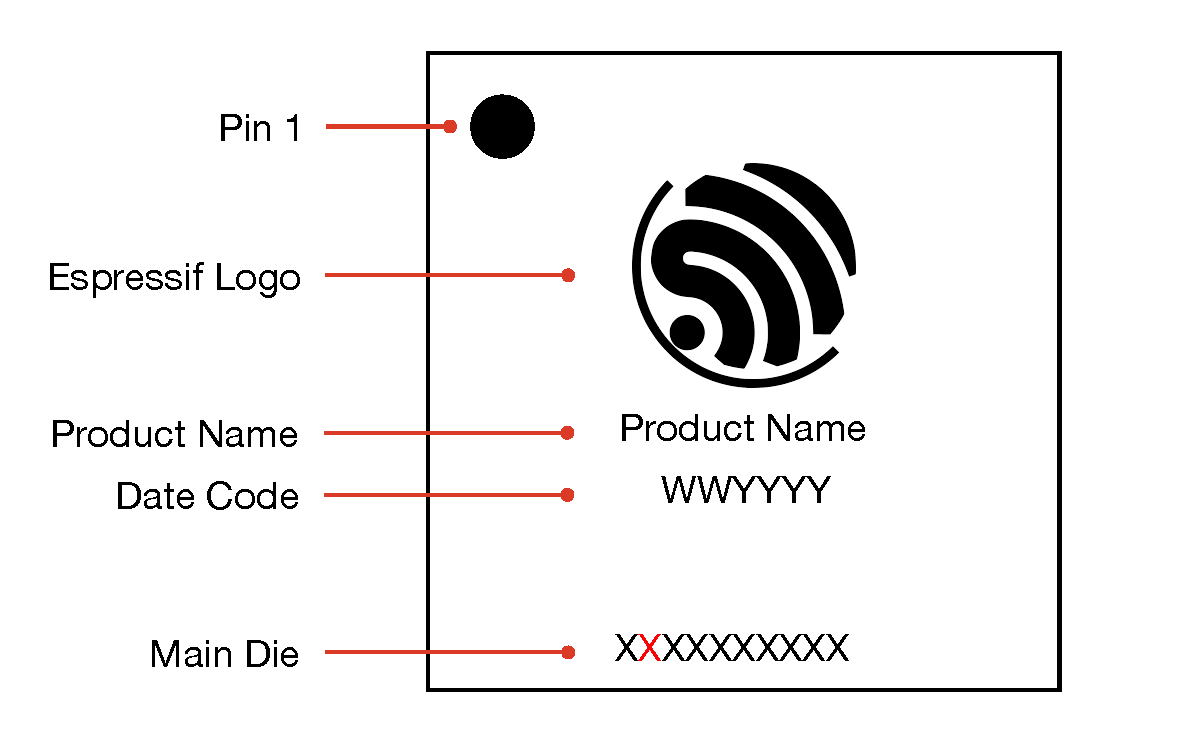
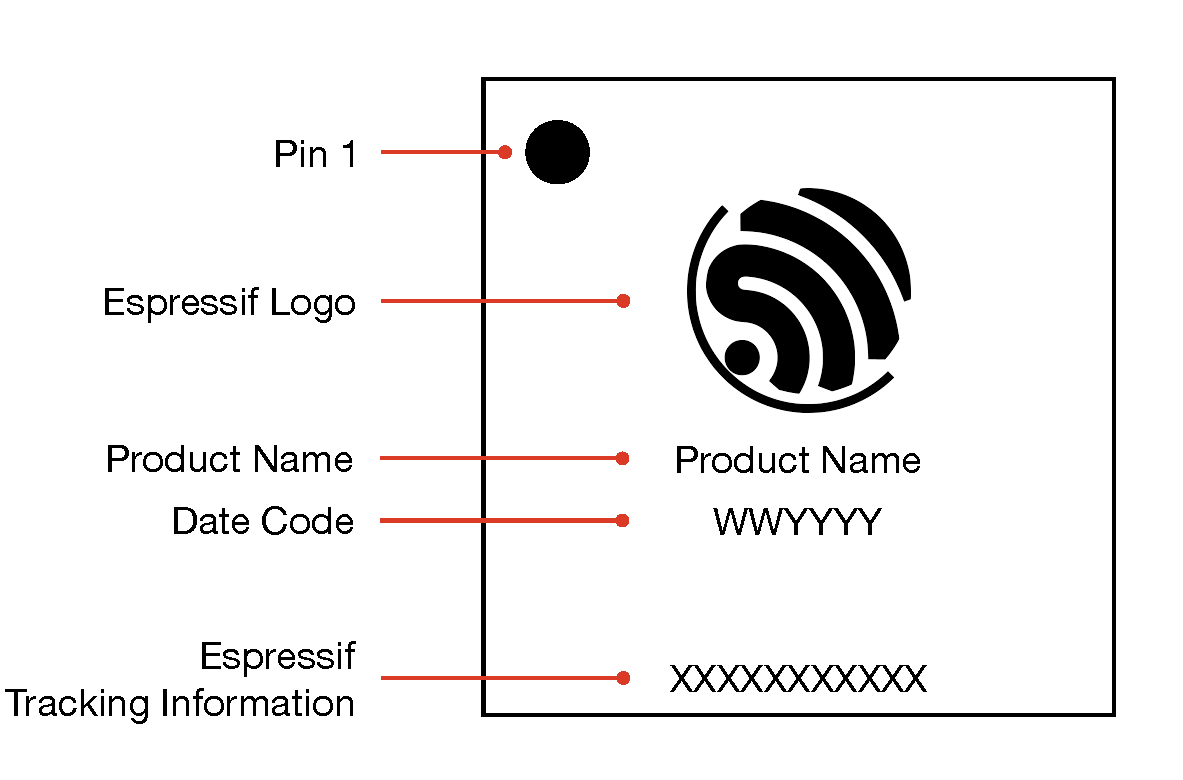
remove chip revision table

Changed region(s): [[0.0, 0.0613, 0.945, 0.92]]

diff --git a/docs/en/hardware-related/chip-comparison.rst b/docs/en/hardware-related/chip-comparison.rst
@@ -94,61 +94,11 @@ Do ESP products support Zephyr?
 How to identify the chip revision from the chip silk marking?
 -------------------------------------------------------------------------------------------
 
-You can do it by checking the second character of main die line on the chip silk marking.
+You can do it by checking the second character of Espressif Tracking Information line in the bottom of the chip silk marking.
 
 .. image:: ../../_static/chip-marking.png
   :width: 400
   :alt: Chip Marking Diagram
-
-The mapping between the chip revision of all our chips and the second character of main die lie can be found in the table below:
-
-+------------------+---------------+-------------------+
-| Chip Series      | Chip Revision | Marking Indicator |
-+==================+===============+===================+
-| ESP32            | v0.0          | A                 |
-|                  +---------------+-------------------+
-|                  | v1.0          | B                 |
-|                  +---------------+-------------------+
-|                  | v1.1          | F                 |
-|                  +---------------+-------------------+
-|                  | v3.0          | E                 |
-|                  +---------------+-------------------+
-|                  | v3.1          | G                 |
-+------------------+---------------+-------------------+
-| ESP32-S2         | v0.0          | A                 |
-|                  +---------------+-------------------+
-|                  | v1.0          | B                 |
-+------------------+---------------+-------------------+
-| ESP32-C3         | v0.0          | A                 |
-|                  +---------------+-------------------+
-|                  | v0.1          | B                 |
-|                  +---------------+-------------------+
-|                  | v0.2          | C                 |
-|                  +---------------+-------------------+
-|                  | v0.3          | D                 |
-|                  +---------------+-------------------+
-|                  | v0.4          | E                 |
-+------------------+---------------+-------------------+
-| ESP32-S3         | v0.0          | A                 |
-|                  +---------------+-------------------+
-|                  | v0.1          | B                 |
-|                  +---------------+-------------------+
-|                  | v0.2          | C                 |
-+------------------+---------------+-------------------+
-| ESP32-C2/ESP8684 | v0.0          | A                 |
-|                  +---------------+-------------------+
-|                  | v1.0          | AA                |
-|                  +---------------+-------------------+
-|                  | v1.1          | B                 |
-|                  +---------------+-------------------+
-|                  | v1.2          | C                 |
-+------------------+---------------+-------------------+
-| ESP32-C6         | v0.0          | A                 |
-+------------------+---------------+-------------------+
-| ESP32-H2         | v0.0          | A                 |
-|                  +---------------+-------------------+
-|                  | v0.1          | B                 |
-+------------------+---------------+-------------------+
 
 - For detailed differences between chip revisions, please refer to respective chip errata documents from Espressif's `documentation page <https://www.espressif.com/en/support/documents/technical-documents?keys=errata>`_.
 - For a complete explanation of the chip silk marking, please refer to `Espressif Chip Packaging Information <https://www.espressif.com/sites/default/files/documentation/espressif_chip_packaging_information_en.pdf>`_.

diff --git a/docs/zh_CN/hardware-related/chip-comparison.rst b/docs/zh_CN/hardware-related/chip-comparison.rst
@@ -94,61 +94,11 @@ ESP 系列产品是否支持 Zephyr？
 如何通过芯片丝印，识别芯片版本？
 -------------------------------------------------------------------
 
-芯片版本可通过查看芯片丝印最下方 main die 行的第二位进行识别。
+芯片版本可通过查看芯片丝印最下方 Espressif Tracking Information 行的第二位进行识别。
 
 .. image:: ../../_static/chip-marking.png
   :width: 400
   :alt: 芯片丝印示意图
-
-乐鑫各系列芯片的芯片版本与 main die 第二位字符一一对应，具体如下：
-
-+------------------+----------+----------+
-| 芯片系列         | 芯片版本 | 丝印标记 |
-+==================+==========+==========+
-| ESP32            | v0.0     | A        |
-|                  +----------+----------+
-|                  | v1.0     | B        |
-|                  +----------+----------+
-|                  | v1.1     | F        |
-|                  +----------+----------+
-|                  | v3.0     | E        |
-|                  +----------+----------+
-|                  | v3.1     | G        |
-+------------------+----------+----------+
-| ESP32-S2         | v0.0     | A        |
-|                  +----------+----------+
-|                  | v1.0     | B        |
-+------------------+----------+----------+
-| ESP32-C3         | v0.0     | A        |
-|                  +----------+----------+
-|                  | v0.1     | B        |
-|                  +----------+----------+
-|                  | v0.2     | C        |
-|                  +----------+----------+
-|                  | v0.3     | D        |
-|                  +----------+----------+
-|                  | v0.4     | E        |
-+------------------+----------+----------+
-| ESP32-S3         | v0.0     | A        |
-|                  +----------+----------+
-|                  | v0.1     | B        |
-|                  +----------+----------+
-|                  | v0.2     | C        |
-+------------------+----------+----------+
-| ESP32-C2/ESP8684 | v0.0     | A        |
-|                  +----------+----------+
-|                  | v1.0     | AA       |
-|                  +----------+----------+
-|                  | v1.1     | B        |
-|                  +----------+----------+
-|                  | v1.2     | C        |
-+------------------+----------+----------+
-| ESP32-C6         | v0.0     | A        |
-+------------------+----------+----------+
-| ESP32-H2         | v0.0     | A        |
-|                  +----------+----------+
-|                  | v0.1     | B        |
-+------------------+----------+----------+
 
 - 有关不同芯片版本的详细差异，请从乐鑫 `文档页面 <https://www.espressif.com/zh-hans/support/documents/technical-documents?keys=%E5%8B%98%E8%AF%AF%E8%A1%A8>`_ 查看对应芯片系列的勘误表文档。
 - 有关芯片丝印的完整介绍，请参考 `《乐鑫芯片包装信息》 <https://www.espressif.com/sites/default/files/documentation/espressif_chip_packaging_information_cn.pdf>`_。
